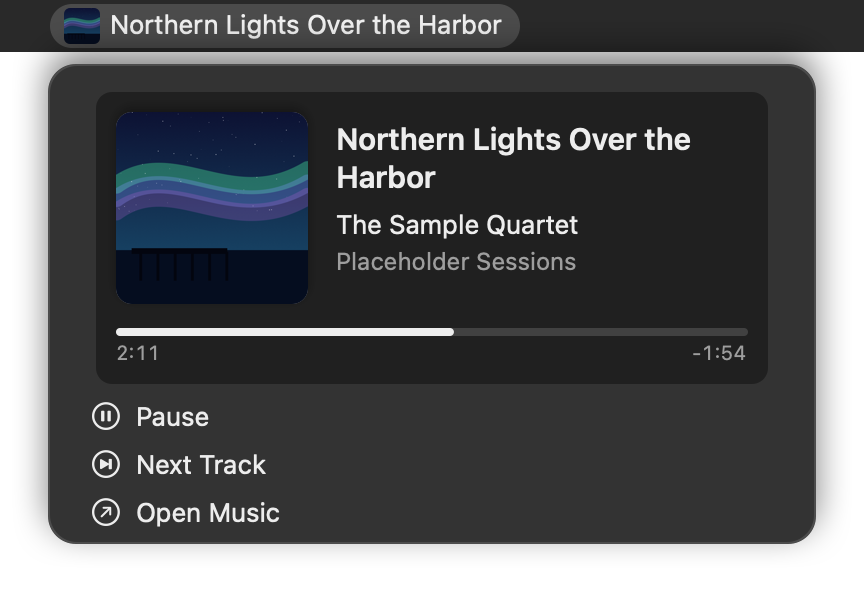
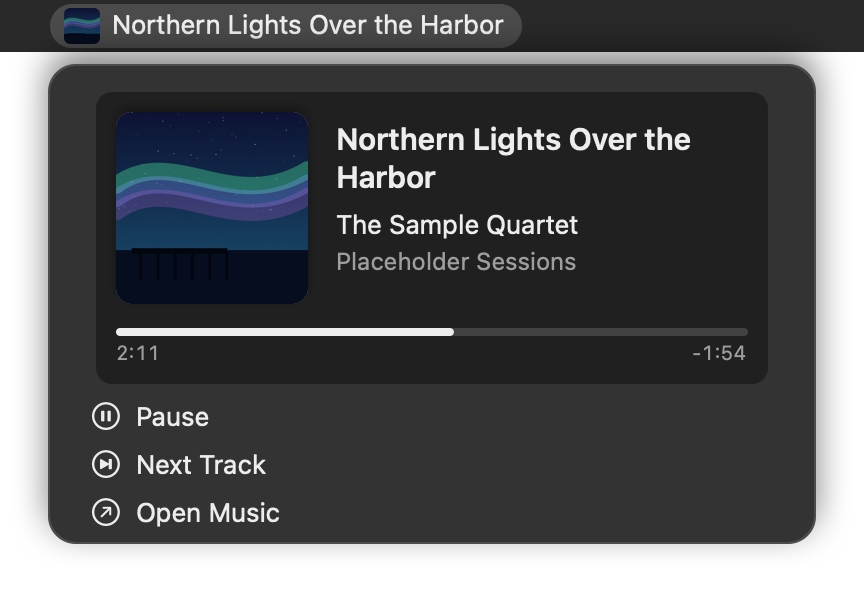
nowplaying: メニューバーのアートワークと曲名の間を広げる (v1.1.6) (#16)
* nowplaying: メニューバーのアートワークと曲名の間を広げる

アートワークと曲名の間は、メニューバーのボタンが決める 3pt しか空いて
いなかった。メニューバーを撮った画像 (2 倍) では、nowplaying が 6px なのに、
sysmon のアイコンとグラフ・棒の間は 11〜12px、weather のアイコンと数字の
間は 10〜12px あった。

アートワークの画像の右に、透明な余白を 3pt 足す。間は 6pt (12px) になる。
SwiftBar には画像の大きさを整数の pt で渡すので、余白も整数にした (端数に
すると、切り上げた幅に画像が引き伸ばされる)。

README 用のプレビューは間を 5pt で描いていて、実物と違っていた。実物と同じ
「ボタンの 3pt + 余白」で描く。

* README の nowplaying の画像を描き直す

* v1.1.6 とする

---------

Changed region(s): [[0.125, 0.0304, 0.5938, 0.0608]]

diff --git a/Sources/nowplaying/NowPlayingImages.swift b/Sources/nowplaying/NowPlayingImages.swift
@@ -12,13 +12,20 @@ struct NowPlayingImages {
 
     /// メニューバーの曲名を切る幅
     static let menuBarTitleWidth: CGFloat = 220
+    /// メニューバーのアートワークの右に足す余白
+    static let menuBarArtworkGap: CGFloat = 3
 
     /// メニューバーのアートワーク (18pt)。曲名は画像に描かず、SwiftBar の文字として
     /// 並べる (SwiftBar.menuBarLine)。アートワークが無いときの音符は、明るい地にも
     /// 暗い地にも見える中間の灰色で描く。
+    ///
+    /// 右に透明な余白 (`menuBarArtworkGap`) を足す。画像と文字の間はメニューバーの
+    /// ボタンが決める 3pt しか空かず、sysmon や weather のアイコンと数字の間 (5〜6pt)
+    /// より狭く見えた。SwiftBar には大きさを整数の pt で渡すので、余白も整数にする
+    /// (端数にすると、切り上げた幅に画像が引き伸ばされる)。
     func menuBarArtwork() -> PNGImage {
         let artSize: CGFloat = 18
-        return PNGImage.draw(width: artSize, height: artSize) { context in
+        return PNGImage.draw(width: artSize + Self.menuBarArtworkGap, height: artSize) { context in
             drawArtwork(context, in: CGRect(x: 0, y: 0, width: artSize, height: artSize),
                         radius: 3, placeholderColor: NSColor(white: 0.55, alpha: 1), shadow: false)
         }
@@ -44,14 +51,17 @@ struct NowPlayingImages {
         let font = NSFont.menuBarFont(ofSize: 0)
         let title = menuBarTitle()
         let titleWidth = ceil(textWidth(title, font: font))
-        let width = artSize + 5 + titleWidth + 1
+        // アートワークと曲名の間は、メニューバーのボタンが空ける 3pt と、アートワークの
+        // 画像の右の余白を足したもの
+        let titleX = artSize + 3 + Self.menuBarArtworkGap
+        let width = titleX + titleWidth + 1
         let color = dark ? NSColor(white: 1, alpha: 0.92) : NSColor(white: 0, alpha: 0.85)
 
         return PNGImage.draw(width: width, height: height) { context in
             drawArtwork(context, in: CGRect(x: 0, y: (height - artSize) / 2, width: artSize, height: artSize),
                         radius: 3, placeholderColor: NSColor(white: 0.55, alpha: 1), shadow: false)
             let lineHeight = ceil(font.ascender - font.descender + font.leading)
-            drawText(title, in: CGRect(x: artSize + 5, y: (height - lineHeight) / 2 - 1, width: titleWidth + 1, height: lineHeight),
+            drawText(title, in: CGRect(x: titleX, y: (height - lineHeight) / 2 - 1, width: titleWidth + 1, height: lineHeight),
                      font: font, color: color)
         }
     }
